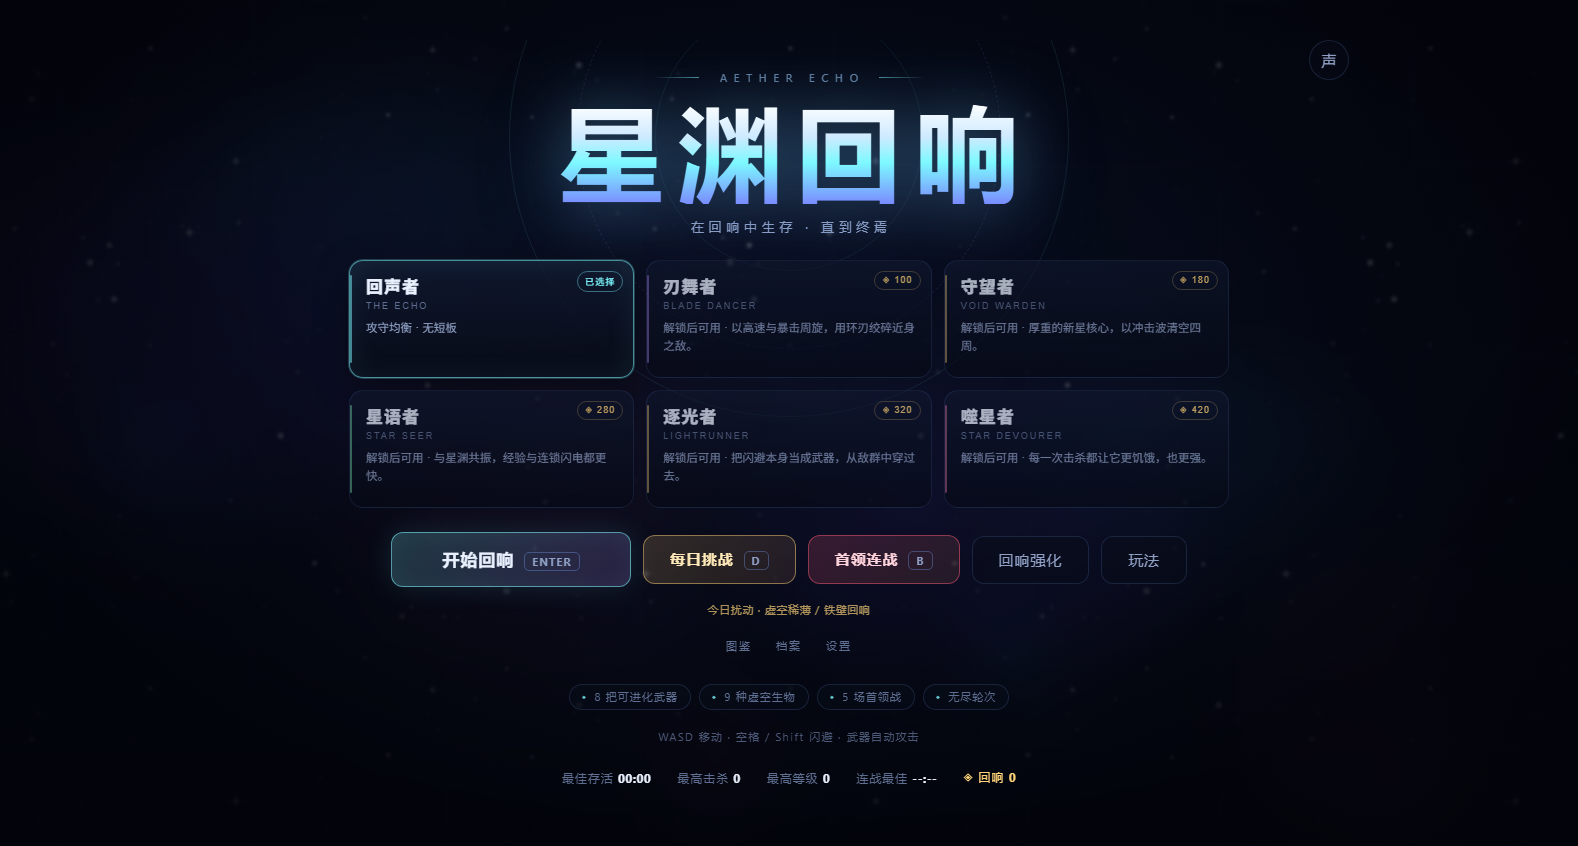
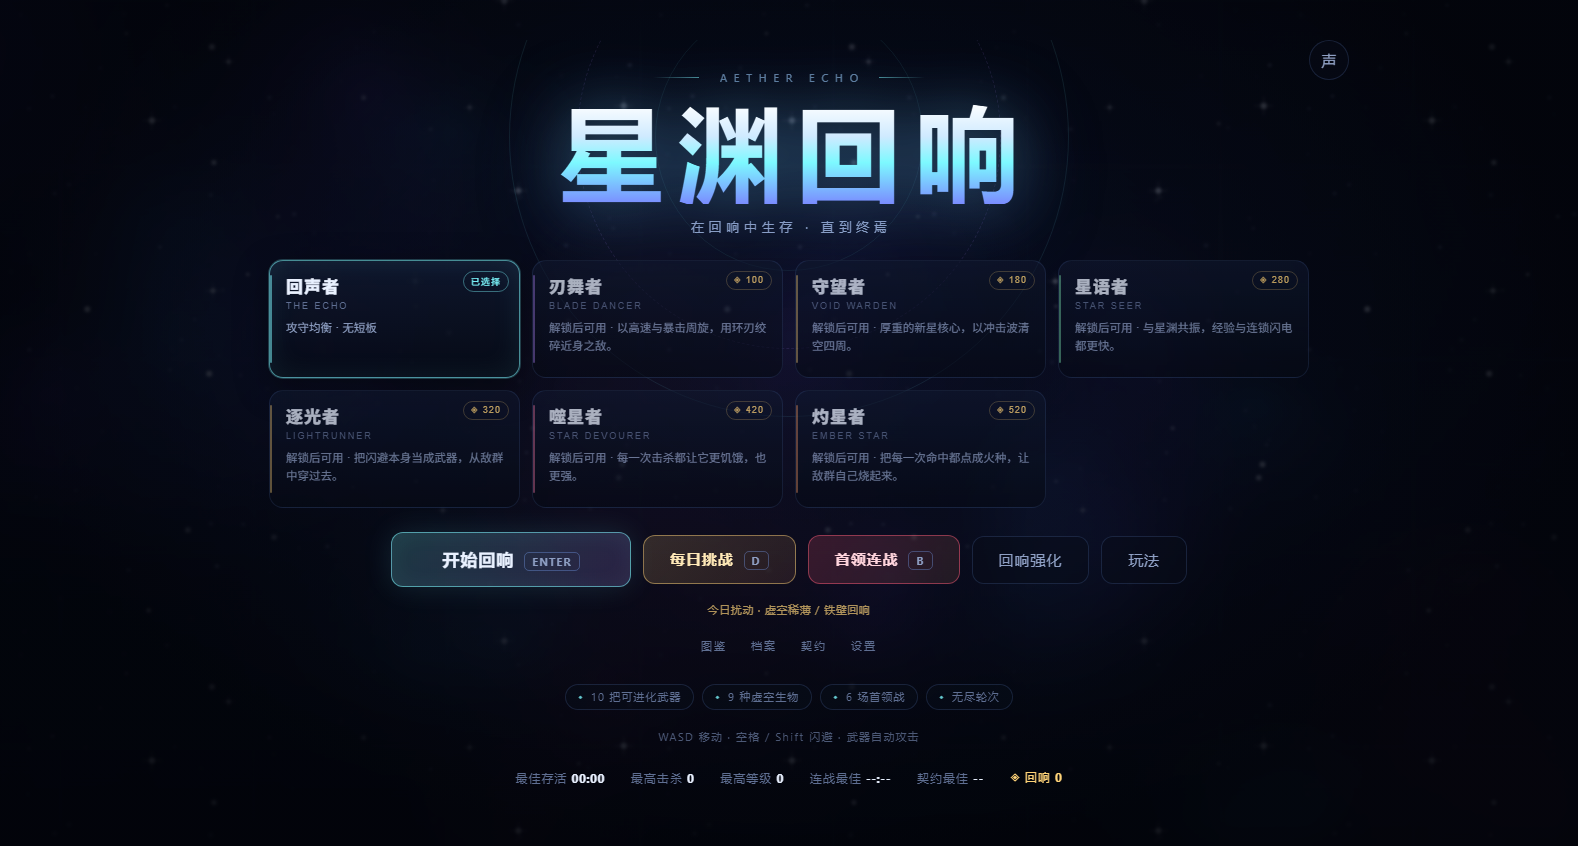
项目: 《星渊回响》v1.14.0 —— 灼星者与燃烧流

diff --git a/projects/aether-echo/js/enemies.js b/projects/aether-echo/js/enemies.js
@@ -92,6 +92,20 @@
         if (!e.alive) { list.splice(i, 1); continue; }
         e.t += dt;
         e.flash = Math.max(0, e.flash - dt);
+        // 灼烧：每秒 4 + 1.1×等级，持续 3 秒
+        if (e.burnT > 0) {
+          e.burnT -= dt;
+          e.burnAcc = (e.burnAcc || 0) + dt;
+          if (e.burnAcc >= 0.4) {
+            e.burnAcc = 0;
+            this.damage(e, (e.burnDps || 0) * 0.4, { noBurn: true, noSplash: true, noFrost: true });
+            if (!e.alive) continue;
+          }
+          if (e.t % 0.18 < dt) {
+            AE.FX.spark(e.x + U.rnd(-e.r, e.r) * 0.6, e.y - e.r * 0.4,
+              '#ff9f68', 1, { spd: 40, life: 0.4, size: 2.4, add: true });
+          }
+        }
         e.orbCd = Math.max(0, e.orbCd - dt);
         e.stun = Math.max(0, e.stun - dt);
         if (e.spawning > 0) {
@@ -685,6 +699,11 @@
       const G = AE.G;
       const pl = G.player;
       G.stats.damage += dmg;
+      // 灼星者：命中点燃目标
+      if (pl && pl.burn && !(opts && opts.noBurn) && dmg > 0) {
+        e.burnT = Math.max(e.burnT || 0, 3);
+        e.burnDps = Math.max(e.burnDps || 0, 6 + pl.level * 1.6);
+      }
       // 遗物：霜冻之触
       if (pl && pl.relics && pl.relics.indexOf('frost') >= 0 && Math.random() < 0.12) {
         e.stun = Math.max(e.stun || 0, 0.25);
@@ -779,6 +798,19 @@
         pl.ult = Math.min(pl.ultMax, pl.ult + (e.boss ? 40 : (e.elite ? 10 : 1.2)));
         if (!wasFull && pl.ult >= pl.ultMax && AE.UI && AE.UI.syncDash) AE.UI.syncDash();
       }
+      // 灼星者：燃烧的敌人死亡时引燃周围
+      if (e.burnT > 0 && pl && pl.burn) {
+        e.burnT = 0;
+        const near = AE.World.grid.query(e.x, e.y, 140);
+        for (let k = 0; k < near.length; k++) {
+          const o = near[k];
+          if (o === e || !o.alive || o.spawning > 0) continue;
+          if (U.d2(e.x, e.y, o.x, o.y) > 140 * 140) continue;
+          o.burnT = Math.max(o.burnT || 0, 2.4);
+          o.burnDps = Math.max(o.burnDps || 0, (e.burnDps || 0) * 0.85);
+        }
+        AE.FX.ring(e.x, e.y, '#ff9f68', 8, 140, 0.4, 2.4);
+      }
       const val = Math.max(1, Math.round(e.xp * (1 + (G.loop || 0) * 0.2)));
       AE.World.dropOrbs(e.x, e.y, val, e.elite);
       if (e.elite) {
@@ -865,6 +897,19 @@
 
       ctx.globalCompositeOperation = 'lighter';
       AE.FX.glow(ctx, 0, 0, e.r * 2.1, col, 0.34);
+      if (e.burnT > 0) {
+        AE.FX.glow(ctx, 0, -e.r * 0.1, e.r * (2.4 + Math.sin(time * 14) * 0.3), '#ff9f68', 0.5);
+        ctx.globalAlpha = alpha * 0.8;
+        ctx.fillStyle = '#ffcf8f';
+        for (let bi = 0; bi < 3; bi++) {
+          const fa = time * 5 + bi * 2.1;
+          ctx.beginPath();
+          ctx.arc(Math.cos(fa) * e.r * 0.5, -e.r * 0.5 - (time * 26 % (e.r * 1.4)) * 0.4,
+            2.4 + Math.sin(fa) * 0.8, 0, U.TAU);
+          ctx.fill();
+        }
+        ctx.globalAlpha = alpha;
+      }
       ctx.globalCompositeOperation = 'source-over';
 
       // 冲角兽的冲锋预警线

diff --git a/projects/aether-echo/js/data.js b/projects/aether-echo/js/data.js
@@ -9,7 +9,7 @@
   const D = (g.DATA = g.DATA || {});
   AE.Data = D;
 
-  D.VERSION = '1.13.0';
+  D.VERSION = '1.14.0';
   D.TITLE = '星渊回响';
   D.SUBTITLE = 'AETHER ECHO';
 
@@ -471,6 +471,13 @@
       start: 'arc', color: '#ff7fb0', killStack: true,
       intro: '每一次击杀都让它更饥饿，也更强。',
       perk: '每击杀 +0.5% 伤害（上限 +100%）· 生命 -8%'
+    },
+    {
+      id: 'ember', name: '灼星者', title: 'EMBER STAR', cost: 520,
+      hp: 96, speed: 240, dmgMul: 0.92, armor: 0, crit: 0, xpMul: 1.0,
+      start: 'bloom', color: '#ff9f68', burn: true,
+      intro: '把每一次命中都点成火种，让敌群自己烧起来。',
+      perk: '所有命中附加 3 秒灼烧（每秒 4 + 1.1×等级）· 伤害 -8%'
     }
   ];
   D.CHAR_MAP = {};

diff --git a/projects/aether-echo/css/style.css b/projects/aether-echo/css/style.css
@@ -237,9 +237,9 @@ html, body {
 .menu-hint b { color: var(--dim); font-weight: 600; }
 .char-row {
   display: grid;
-  grid-template-columns: repeat(3, minmax(0, 1fr));
+  grid-template-columns: repeat(4, minmax(0, 1fr));
   gap: 12px;
-  width: min(880px, 100%);
+  width: min(1040px, 100%);
 }
 .char-card {
   --c: var(--cyan);

diff --git a/projects/aether-echo/js/player.js b/projects/aether-echo/js/player.js
@@ -30,6 +30,7 @@
         dashCdMul: char.dashCdMul || 1,
         dashDamage: !!char.dashDamage,
         killStack: !!char.killStack,
+        burn: !!char.burn,
         killStacks: 0, stackBonus: 0,
         revives: lv('revive'),
         level: 1, xp: 0, xpNeed: D.xpNeed(1),

diff --git a/projects/aether-echo/README.md b/projects/aether-echo/README.md
@@ -49,7 +49,7 @@ python -m http.server 8080
 - **无尽轮次**：通关后可继续，敌人与首领全面强化。
 - **首领连战**：不刷小怪，按顺序连打五名首领，每场之间三选一 ×3，按通关用时记录最佳。
 - **遗物**：每次击破首领额外三选一遗物，18 件遗物能彻底改变同一套武器的玩法。
-- **六名角色**：除四位基础角色外，逐光者把闪避本身变成穿身伤害，噬星者靠击杀永久叠伤（上限 +100%）。
+- **七名角色**：逐光者把闪避本身变成穿身伤害，噬星者靠击杀永久叠伤，灼星者让所有命中附带持续燃烧并引燃周围。
 - **局外成长**：每局结束按表现结算「回响」，用于购买永久强化、解锁新角色。
 - **深渊契约**：开局可自选 1~4 条难度词条（兽潮 / 狂怒 / 疾行 / 精锐），每条敌人更强、结算回响 +20%，单独记录契约最佳。
 - **图鉴 / 档案**：全部武器、被动、敌人、首领可查；22 项成就、生涯统计与本地最佳记录。
@@ -72,11 +72,11 @@ python -m http.server 8080
 | 回旋月刃 | 飞出后折返，去程回程各切一次 | 双生月蚀（六刃往返） |
 | 星华绽放 | 向四周环射花瓣，近身清场 | 超新星花园（22 瓣环爆） |
 
-### 六名角色
+### 七名角色
 
-回声者（均衡）/ 刃舞者（高速暴击）/ 守望者（高血护甲）/ 星语者（经验与连锁）/ 逐光者（闪避冷却 -30%，闪避穿过敌人造成伤害）/ 噬星者（每次击杀永久 +0.5% 伤害，上限 +100%，生命 -8%）。后五名用回响解锁。
+回声者（均衡）/ 刃舞者（高速暴击）/ 守望者（高血护甲）/ 星语者（经验与连锁）/ 逐光者（闪避冷却 -30%，闪避穿过敌人造成伤害）/ 噬星者（每次击杀永久 +0.5% 伤害，上限 +100%，生命 -8%）/ 灼星者（所有命中附加 3 秒灼烧，燃烧目标死亡会引燃周围）。后六名用回响解锁。
 
-两名新角色的机制都写进了本局 HUD：逐光者冲刺时穿过敌群会直接压血；噬星者左上角实时显示「吞噬 +X% · 击杀数」。
+新角色的机制都写进了本局 HUD：逐光者冲刺时穿过敌群会直接压血；噬星者左上角实时显示「吞噬 +X% · 击杀数」；灼星者的燃烧敌人会持续冒火，死亡时向周围 140px 扩散火种。
 
 ### 六场首领战
 
@@ -168,7 +168,7 @@ aether-echo/
 这个项目在没有手动点击的情况下做了两轮自动化验证：
 
 1. **Node 无头模拟器**（`tools/sim.cjs`）：在 Node 中加载真实游戏代码 + Canvas/DOM 桩，跑完整 10 分钟对局，机器人自动走位与选卡，输出等级 / 击杀 / BOSS / DPS 时间线，用于数值平衡。
-2. **Chrome CDP 自动化**（`tools/selftest.html` + `tools/cdp-selftest.cjs`）：真实浏览器中执行 71 项 UI 冒烟测试（菜单、开始、升级选卡、暂停、恢复、结算、强化购买、角色解锁、逐光者闪避伤害、噬星者击杀叠伤、星核爆发与能量积攒、深渊之眼运转、遗物数量与处决 / 雷霆效果、深渊契约开关与倍率、设置、高对比 / 低动态、图鉴、档案、成就、每日挑战种子与每日记录、首领登场、首领连战、遗物三选一），并抓取控制台异常；同时用 CDP 截图做视觉回归，覆盖 1600×1000 桌面、1280×720 短屏与手机竖屏。
+2. **Chrome CDP 自动化**（`tools/selftest.html` + `tools/cdp-selftest.cjs`）：真实浏览器中执行 73 项 UI 冒烟测试（菜单、开始、升级选卡、暂停、恢复、结算、强化购买、角色解锁、逐光者闪避伤害、噬星者击杀叠伤、星核爆发与能量积攒、深渊之眼运转、遗物数量与处决 / 雷霆效果、深渊契约开关与倍率、设置、高对比 / 低动态、图鉴、档案、成就、每日挑战种子与每日记录、首领登场、首领连战、遗物三选一），并抓取控制台异常；同时用 CDP 截图做视觉回归，覆盖 1600×1000 桌面、1280×720 短屏与手机竖屏。
 
 运行方式（本机 Electron 内置 Node）：
 
@@ -179,7 +179,7 @@ aether-echo/
 # 数值模拟：标签 局数 最长秒数 起始种子 [god]
 <electron> tools/sim.cjs demo 4 700 1
 
-# UI 冒烟测试（真实 Chrome，71 项断言，结果写入 tools/selftest-result.txt）
+# UI 冒烟测试（真实 Chrome，73 项断言，结果写入 tools/selftest-result.txt）
 <electron> tools/cdp-selftest.cjs file:///.../tools/selftest.html tools/selftest-result.txt
 
 # 截图（需要 Chrome）
@@ -220,6 +220,10 @@ aether-echo/
 |---|
 | ![登场](shots/intro.png) |
 
+| 新角色「灼星者」 |
+|---|
+| ![灼星者](shots/ember.png) |
+
 | 手机竖屏菜单 | 手机竖屏战斗 |
 |---|---|
 | ![手机菜单](shots/mobile-menu.png) | ![手机战斗](shots/mobile-play.png) |
@@ -240,6 +244,7 @@ aether-echo/
 
 ## 版本记录
 
+- **1.14.0** — 新角色「灼星者」：所有命中附加 3 秒灼烧（每秒 6 + 1.6×等级），燃烧目标死亡时向 140px 内扩散火种，形成连锁燃烧；初始武器星华绽放，生命 96、伤害 -8%；角色总数扩到 7，UI 冒烟测试扩到 73 项。
 - **1.13.0** — 新首领「深渊之眼」（无尽 16:00）：巨型眼球 + 八条卷须 + 三枚环绕碎片，三条凝视激光扫射、召唤光灵，50% 后开合加速；分层眼睑/虹膜/竖瞳全部程序化绘制；UI 冒烟测试扩到 71 项。
 - **1.12.0** — 新增两把武器：回旋月刃（飞出后折返，回程再切一次，进化双生月蚀）与星华绽放（全向环射花瓣，进化超新星花园）；武器总数扩到 10 把，构筑池更宽；UI 冒烟测试扩到 70 项。
 - **1.11.0** — 手感与节奏重做：新增主动技「星核爆发」（击杀蓄能、E / 触屏释放、清屏 + 慢镜头）；前期刷怪配额翻倍、首领血量成长从 5.5×/分钟降到 4.2×；轨道刃改为「环绕 + 定期甩出刃片」并修掉冷却记在敌人身上的问题（木桩从 0 命中到稳定输出）；重做星屑风暴 / 相位链 / 引力井 / 奇点爆发 / 棱镜审判数值；首领新增双层符文环，玩家新增引擎尾焰、装甲翼片与星核就绪金环；UI 冒烟测试扩到 67 项（星核爆发与击杀蓄能断言）。
@@ -271,4 +276,4 @@ aether-echo/
 
 ---
 
-*版本 1.13.0 · 无外部素材 · 无第三方依赖*
+*版本 1.14.0 · 无外部素材 · 无第三方依赖*
